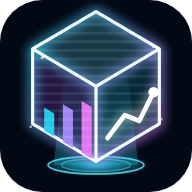
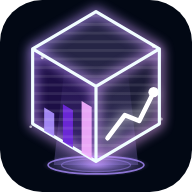
Pantalla de carga e ícono: un color por negocio
El holograma toma sus 3 colores (--holo-1 luz, --holo-2 caras, --holo-3
acento) de una sola línea en index.html; styles.css queda igual en las 3
apps y solo usa las variables (stops del SVG, anillos, caras, barras, barra
de progreso y botón "Reintentar"). Central violeta, España rojo y dorado,
El Cruce verde. Los íconos se regeneran con la misma paleta, así el cubo
del ícono y el de la app coinciden.

Claude-Session: https://claude.ai/code/session_01UUVvPYiGGXwUdzUdNGQR7i

Changed region(s): [[0.125, 0.0312, 0.8438, 0.9375]]

diff --git a/index.html b/index.html
@@ -42,14 +42,16 @@
        El fondo (brillo, haz y base) es un SVG de 390×844 que se escala
        entero; el cubo es 3D de verdad (seis caras con CSS 3D) y gira sobre
        su eje — ver styles.css, "Pantalla de carga: cubo holográfico". -->
-  <div id="screen-loading" class="screen active">
+  <!-- Los 3 colores del holograma (--holo-1/2/3) son la identidad de esta app:
+       cada negocio tiene los suyos, el resto del dibujo es igual en todas. -->
+  <div id="screen-loading" class="screen active" style="--holo-1: #a78bfa; --holo-2: #6d28d9; --holo-3: #f0abfc;">
     <div class="loading-wrap">
       <svg class="holo" viewBox="0 0 390 844" preserveAspectRatio="xMidYMid meet" aria-hidden="true" focusable="false">
         <defs>
-          <radialGradient id="holo-glow" cx="195" cy="330" r="240" gradientUnits="userSpaceOnUse"><stop offset="0" stop-color="#22d3ee" stop-opacity=".22"/><stop offset=".6" stop-color="#7c3aed" stop-opacity=".1"/><stop offset="1" stop-color="#7c3aed" stop-opacity="0"/></radialGradient>
-          <linearGradient id="holo-haz-g" x1="0" y1="1" x2="0" y2="0"><stop offset="0" stop-color="#22d3ee" stop-opacity=".26"/><stop offset="1" stop-color="#22d3ee" stop-opacity="0"/></linearGradient>
+          <radialGradient id="holo-glow" cx="195" cy="330" r="240" gradientUnits="userSpaceOnUse"><stop class="holo-p1" offset="0" stop-opacity=".22"/><stop class="holo-p2" offset=".6" stop-opacity=".1"/><stop class="holo-p2" offset="1" stop-opacity="0"/></radialGradient>
+          <linearGradient id="holo-haz-g" x1="0" y1="1" x2="0" y2="0"><stop class="holo-p1" offset="0" stop-opacity=".26"/><stop class="holo-p1" offset="1" stop-opacity="0"/></linearGradient>
           <linearGradient id="holo-piso-g" x1="0" y1="0" x2="0" y2="1"><stop offset="0" stop-color="#fff"/><stop offset="1" stop-color="#fff" stop-opacity="0"/></linearGradient>
-          <radialGradient id="holo-base-g" cx=".5" cy=".5" r=".5"><stop offset="0" stop-color="#22d3ee" stop-opacity=".85"/><stop offset="1" stop-color="#22d3ee" stop-opacity="0"/></radialGradient>
+          <radialGradient id="holo-base-g" cx=".5" cy=".5" r=".5"><stop class="holo-p1" offset="0" stop-opacity=".85"/><stop class="holo-p1" offset="1" stop-opacity="0"/></radialGradient>
           <pattern id="holo-puntos" width="40" height="40" patternUnits="userSpaceOnUse"><circle cx="20" cy="20" r=".8" fill="#fff" fill-opacity=".07"/></pattern>
           <mask id="holo-piso-m" maskUnits="userSpaceOnUse" x="0" y="0" width="390" height="844"><rect x="0" y="540" width="390" height="260" fill="url(#holo-piso-g)"/></mask>
         </defs>
@@ -59,7 +61,7 @@
           <circle cx="46" cy="96" r="1.3" opacity=".7"/><circle cx="332" cy="72" r="1.1" opacity=".6"/><circle cx="358" cy="210" r="1" opacity=".5"/>
           <circle cx="28" cy="300" r="1.2" opacity=".5"/><circle cx="300" cy="150" r=".9" opacity=".5"/><circle cx="90" cy="190" r=".9" opacity=".45"/>
         </g>
-        <g mask="url(#holo-piso-m)" stroke="#22d3ee" stroke-opacity=".16" stroke-width="1">
+        <g class="holo-piso" mask="url(#holo-piso-m)" stroke-opacity=".16" stroke-width="1">
           <path d="M0 566H390M0 596H390M0 634H390M0 682H390M0 742H390"/>
           <path d="M195 540L-180 844M195 540L-50 844M195 540L75 844M195 540V844M195 540L315 844M195 540L440 844M195 540L570 844"/>
         </g>
@@ -67,17 +69,17 @@
         <polygon class="holo-haz" points="90,540 300,540 262,170 128,170" fill="url(#holo-haz-g)"/>
         <g class="holo-base">
           <ellipse cx="195" cy="540" rx="150" ry="30" fill="url(#holo-base-g)"/>
-          <ellipse cx="195" cy="540" rx="132" ry="25" fill="none" stroke="#67e8f9" stroke-width="1.6" opacity=".85"/>
-          <ellipse cx="195" cy="540" rx="96" ry="18" fill="none" stroke="#67e8f9" stroke-width="1.2" opacity=".5"/>
-          <ellipse cx="195" cy="540" rx="60" ry="11" fill="none" stroke="#67e8f9" stroke-width="1" opacity=".3"/>
+          <ellipse class="holo-anillo" cx="195" cy="540" rx="132" ry="25" fill="none" stroke-width="1.6" opacity=".85"/>
+          <ellipse class="holo-anillo" cx="195" cy="540" rx="96" ry="18" fill="none" stroke-width="1.2" opacity=".5"/>
+          <ellipse class="holo-anillo" cx="195" cy="540" rx="60" ry="11" fill="none" stroke-width="1" opacity=".3"/>
         </g>
       </svg>
       <!-- Las caras de adelante/atrás llevan las barras y las de los costados el
            gráfico, así siempre hay algo a la vista mientras gira. -->
       <div class="holo-3d" aria-hidden="true">
         <div class="holo-cubo3d">
-          <div class="holo-cara holo-cara-frente"><svg viewBox="0 0 100 100"><rect x="20" y="54" width="14" height="30" rx="2" fill="#22d3ee"/><rect x="43" y="39" width="14" height="45" rx="2" fill="#a78bfa"/><rect x="66" y="24" width="14" height="60" rx="2" fill="#e879f9"/></svg></div>
-          <div class="holo-cara holo-cara-atras"><svg viewBox="0 0 100 100"><rect x="20" y="54" width="14" height="30" rx="2" fill="#22d3ee"/><rect x="43" y="39" width="14" height="45" rx="2" fill="#a78bfa"/><rect x="66" y="24" width="14" height="60" rx="2" fill="#e879f9"/></svg></div>
+          <div class="holo-cara holo-cara-frente"><svg viewBox="0 0 100 100"><rect class="holo-b1" x="20" y="54" width="14" height="30" rx="2"/><rect class="holo-b2" x="43" y="39" width="14" height="45" rx="2"/><rect class="holo-b3" x="66" y="24" width="14" height="60" rx="2"/></svg></div>
+          <div class="holo-cara holo-cara-atras"><svg viewBox="0 0 100 100"><rect class="holo-b1" x="20" y="54" width="14" height="30" rx="2"/><rect class="holo-b2" x="43" y="39" width="14" height="45" rx="2"/><rect class="holo-b3" x="66" y="24" width="14" height="60" rx="2"/></svg></div>
           <div class="holo-cara holo-cara-der"><svg viewBox="0 0 100 100"><path d="M14 76L34 56L50 62L68 36L86 24" fill="none" stroke="#fff" stroke-width="4" stroke-linecap="round" stroke-linejoin="round"/><circle cx="86" cy="24" r="5" fill="#fff"/></svg></div>
           <div class="holo-cara holo-cara-izq"><svg viewBox="0 0 100 100"><path d="M14 76L34 56L50 62L68 36L86 24" fill="none" stroke="#fff" stroke-width="4" stroke-linecap="round" stroke-linejoin="round"/><circle cx="86" cy="24" r="5" fill="#fff"/></svg></div>
           <div class="holo-cara holo-cara-arriba"></div>

diff --git a/styles.css b/styles.css
@@ -136,6 +136,11 @@ body {
    ("meet"): en pantallas más anchas quedan bandas del mismo color de fondo,
    invisibles. */
 #screen-loading {
+  /* paleta del holograma; cada app pisa estas 3 variables desde su index.html
+     (--holo-1 luz principal, --holo-2 caras del cubo, --holo-3 acento) */
+  --holo-1: #22d3ee;
+  --holo-2: #a855f7;
+  --holo-3: #e879f9;
   background: #020814;
   color: #fff;
   /* el body deja la franja del notch como padding; acá la tapamos también */
@@ -154,6 +159,12 @@ body {
   .loading-wrap { --holo-u: min(calc(100vw / 390), calc((100dvh - var(--safe-top)) / 844)); }
 }
 .holo { position: absolute; inset: 0; width: 100%; height: 100%; display: block; }
+.holo-p1 { stop-color: var(--holo-1); }
+.holo-p2 { stop-color: var(--holo-2); }
+.holo-piso, .holo-anillo { stroke: var(--holo-1); }
+.holo-b1 { fill: var(--holo-1); }
+.holo-b2 { fill: var(--holo-2); }
+.holo-b3 { fill: var(--holo-3); }
 .loading-texto {
   position: absolute; left: 0; right: 0; top: 70%;
   padding: 0 24px;
@@ -162,10 +173,10 @@ body {
 }
 .loading-nombre { margin: 0; font-size: 30px; font-weight: 600; letter-spacing: -0.02em; }
 .loading-barra { width: 150px; height: 4px; margin-top: 26px; border-radius: 999px; background: rgba(255,255,255,.12); overflow: hidden; }
-.loading-barra-fill { width: 45%; height: 100%; border-radius: 999px; background: #22d3ee; box-shadow: 0 0 10px #22d3ee; animation: holo-barra 1.8s ease-in-out infinite; }
-#screen-loading #loading-msg { margin: 14px 0 0; font-size: 13px; color: #8fb3c7; }
+.loading-barra-fill { width: 45%; height: 100%; border-radius: 999px; background: var(--holo-1); box-shadow: 0 0 10px var(--holo-1); animation: holo-barra 1.8s ease-in-out infinite; }
+#screen-loading #loading-msg { margin: 14px 0 0; font-size: 13px; color: #a3adc2; }
 #screen-loading .btn-primary, #screen-loading .btn-secondary { max-width: 280px; margin-top: 12px; }
-#screen-loading .btn-primary { background: #22d3ee; color: #041018; }
+#screen-loading .btn-primary { background: var(--holo-1); color: #041018; }
 #screen-loading .btn-secondary { background: rgba(255,255,255,.1); color: #fff; }
 
 /* El cubo: seis caras translúcidas con CSS 3D que giran sobre su eje
@@ -191,20 +202,22 @@ body {
 }
 .holo-cara {
   position: absolute; inset: 0;
-  border: calc(var(--holo-u) * 2.5) solid rgba(240,253,255,.95);
-  background-color: rgba(34,211,238,.14);
+  border: calc(var(--holo-u) * 2.5) solid color-mix(in srgb, var(--holo-1) 30%, #fff);
+  background-color: color-mix(in srgb, var(--holo-1) 14%, transparent);
   /* líneas de barrido de holograma; suben solas (holo-barrido) */
   background-image: repeating-linear-gradient(0deg, rgba(255,255,255,.08) 0 1px, transparent 1px 4px);
-  box-shadow: 0 0 calc(var(--holo-u) * 10) rgba(34,211,238,.7), 0 0 calc(var(--holo-u) * 28) rgba(232,121,249,.35), inset 0 0 calc(var(--holo-u) * 12) rgba(34,211,238,.3);
+  box-shadow: 0 0 calc(var(--holo-u) * 10) color-mix(in srgb, var(--holo-1) 70%, transparent),
+              0 0 calc(var(--holo-u) * 28) color-mix(in srgb, var(--holo-3) 35%, transparent),
+              inset 0 0 calc(var(--holo-u) * 12) color-mix(in srgb, var(--holo-1) 30%, transparent);
   animation: holo-barrido .6s linear infinite;
 }
 .holo-cara svg { position: absolute; inset: 0; width: 100%; height: 100%; display: block; }
-.holo-cara-frente { transform: translateZ(calc(var(--holo-lado) / 2)); background-color: rgba(168,85,247,.2); }
-.holo-cara-atras  { transform: rotateY(180deg) translateZ(calc(var(--holo-lado) / 2)); background-color: rgba(168,85,247,.2); }
+.holo-cara-frente { transform: translateZ(calc(var(--holo-lado) / 2)); background-color: color-mix(in srgb, var(--holo-2) 24%, transparent); }
+.holo-cara-atras  { transform: rotateY(180deg) translateZ(calc(var(--holo-lado) / 2)); background-color: color-mix(in srgb, var(--holo-2) 24%, transparent); }
 .holo-cara-der    { transform: rotateY(90deg) translateZ(calc(var(--holo-lado) / 2)); }
 .holo-cara-izq    { transform: rotateY(-90deg) translateZ(calc(var(--holo-lado) / 2)); }
-.holo-cara-arriba { transform: rotateX(90deg) translateZ(calc(var(--holo-lado) / 2)); background-color: rgba(103,232,249,.22); }
-.holo-cara-abajo  { transform: rotateX(-90deg) translateZ(calc(var(--holo-lado) / 2)); background-color: rgba(103,232,249,.06); }
+.holo-cara-arriba { transform: rotateX(90deg) translateZ(calc(var(--holo-lado) / 2)); background-color: color-mix(in srgb, var(--holo-1) 22%, transparent); }
+.holo-cara-abajo  { transform: rotateX(-90deg) translateZ(calc(var(--holo-lado) / 2)); background-color: color-mix(in srgb, var(--holo-1) 6%, transparent); }
 .holo-base, .holo-haz { transform-origin: 195px 540px; animation: holo-late 4.2s ease-in-out infinite; }
 
 @keyframes holo-gira { from { transform: rotateX(-35deg) rotateY(45deg); } to { transform: rotateX(-35deg) rotateY(405deg); } }
